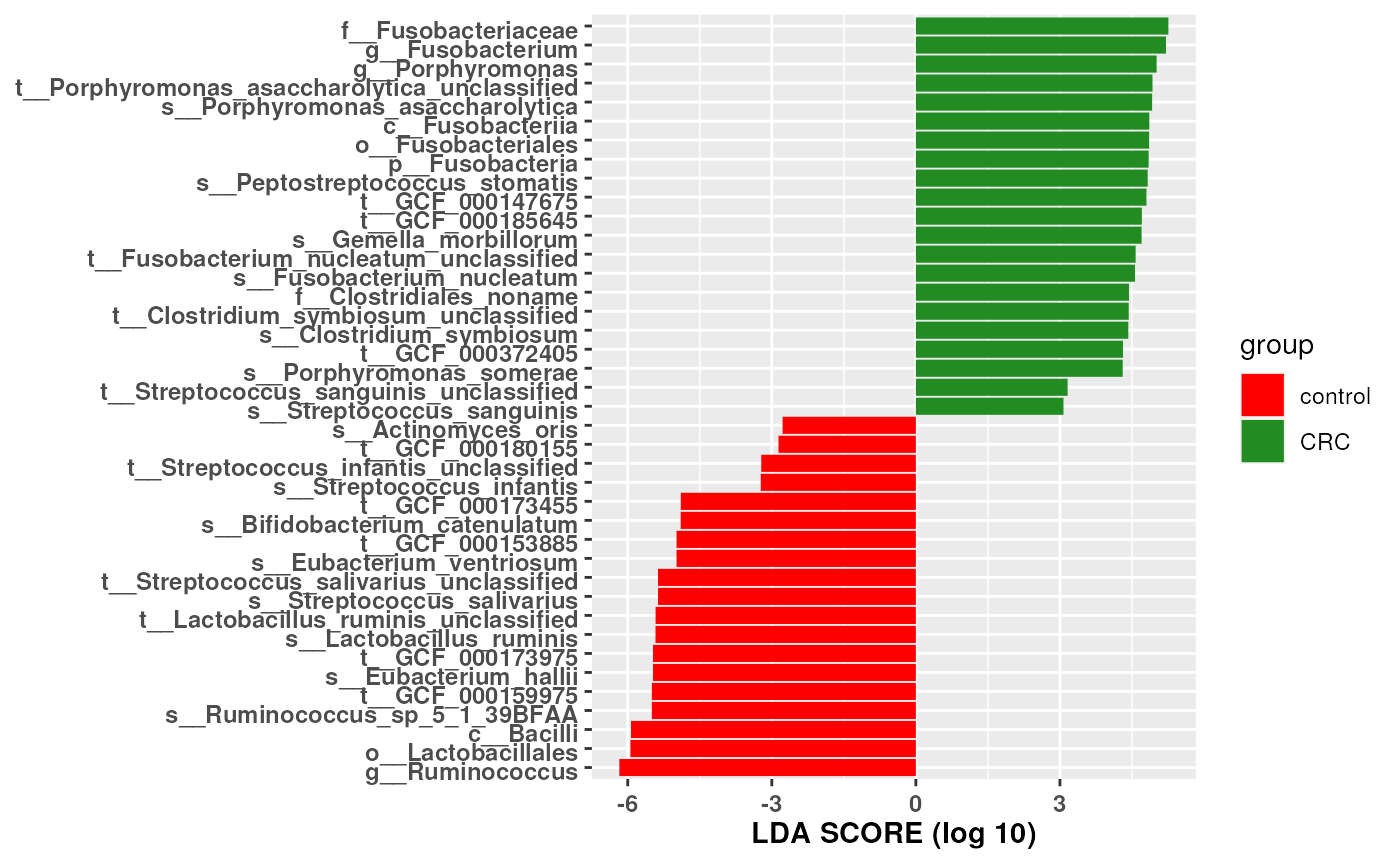
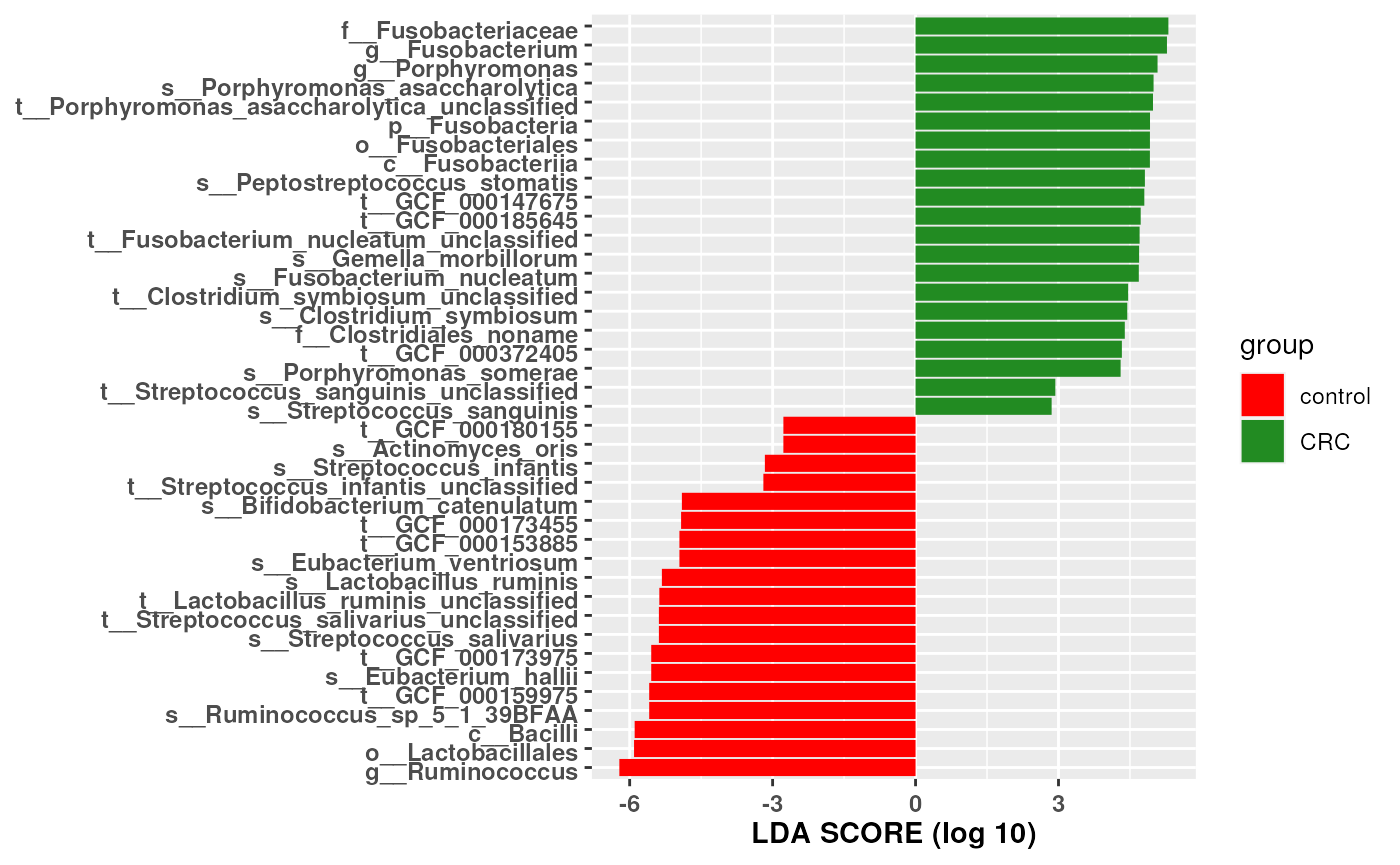
Deploying to gh-pages from @ waldronlab/lefser@5c6cd677761638077e22e229d8a00ba6323e78dc 🚀

diff --git a/articles/lefser.html b/articles/lefser.html
@@ -39,7 +39,7 @@
       </button>
       <span class="navbar-brand">
         <a class="navbar-link" href="../index.html">lefser</a>
-        <span class="version label label-default" data-toggle="tooltip" data-placement="bottom" title="">1.11.3</span>
+        <span class="version label label-default" data-toggle="tooltip" data-placement="bottom" title="">1.11.4</span>
       </span>
     </div>
 
@@ -174,12 +174,12 @@ and their effect size.</p>
 <span><span class="co">## 5 k__Bacteria|p__Firmicutes|c__Clostridia|o__Clostridiales|f__Ruminococcaceae|g__Ruminococcus|s__Ruminococcus_sp_5_1_39BFAA|t__GCF_000159975</span></span>
 <span><span class="co">## 6                            k__Bacteria|p__Firmicutes|c__Clostridia|o__Clostridiales|f__Eubacteriaceae|g__Eubacterium|s__Eubacterium_hallii</span></span>
 <span><span class="co">##      scores</span></span>
-<span><span class="co">## 1 -6.174735</span></span>
-<span><span class="co">## 2 -5.944198</span></span>
-<span><span class="co">## 3 -5.932699</span></span>
-<span><span class="co">## 4 -5.498126</span></span>
-<span><span class="co">## 5 -5.498126</span></span>
-<span><span class="co">## 6 -5.474545</span></span></code></pre>
+<span><span class="co">## 1 -6.216414</span></span>
+<span><span class="co">## 2 -5.908016</span></span>
+<span><span class="co">## 3 -5.895093</span></span>
+<span><span class="co">## 4 -5.590072</span></span>
+<span><span class="co">## 5 -5.590072</span></span>
+<span><span class="co">## 6 -5.547374</span></span></code></pre>
 </div>
 <div class="section level2">
 <h2 id="visualizing-results-with-lefserplot">Visualizing results with <code>lefserPlot</code><a class="anchor" aria-label="anchor" href="#visualizing-results-with-lefserplot"></a>
@@ -187,10 +187,67 @@ and their effect size.</p>
 <div class="sourceCode" id="cb15"><pre class="downlit sourceCode r">
 <code class="sourceCode R"><span><span class="fu"><a href="../reference/lefserPlot.html">lefserPlot</a></span><span class="op">(</span><span class="va">res</span><span class="op">)</span></span></code></pre></div>
 <p><img src="lefser_files/figure-html/unnamed-chunk-8-1.png" width="700" style="display: block; margin: auto;"></p>
+</div>
+<div class="section level2">
+<h2 id="interoperating-with-phyloseq">Interoperating with phyloseq<a class="anchor" aria-label="anchor" href="#interoperating-with-phyloseq"></a>
+</h2>
+<p>When using <code>phyloseq</code> objects, we recommend to extract the
+data and create a <code>SummarizedExperiment</code> object as
+follows:</p>
+<div class="sourceCode" id="cb16"><pre class="downlit sourceCode r">
+<code class="sourceCode R"><span><span class="kw"><a href="https://rdrr.io/r/base/library.html" class="external-link">library</a></span><span class="op">(</span><span class="va"><a href="http://dx.plos.org/10.1371/journal.pone.0061217" class="external-link">phyloseq</a></span><span class="op">)</span></span></code></pre></div>
+<pre><code><span><span class="co">## </span></span>
+<span><span class="co">## Attaching package: 'phyloseq'</span></span></code></pre>
+<pre><code><span><span class="co">## The following object is masked from 'package:SummarizedExperiment':</span></span>
+<span><span class="co">## </span></span>
+<span><span class="co">##     distance</span></span></code></pre>
+<pre><code><span><span class="co">## The following object is masked from 'package:Biobase':</span></span>
+<span><span class="co">## </span></span>
+<span><span class="co">##     sampleNames</span></span></code></pre>
+<pre><code><span><span class="co">## The following object is masked from 'package:GenomicRanges':</span></span>
+<span><span class="co">## </span></span>
+<span><span class="co">##     distance</span></span></code></pre>
+<pre><code><span><span class="co">## The following object is masked from 'package:IRanges':</span></span>
+<span><span class="co">## </span></span>
+<span><span class="co">##     distance</span></span></code></pre>
+<div class="sourceCode" id="cb22"><pre class="downlit sourceCode r">
+<code class="sourceCode R"><span><span class="va">fp</span> <span class="op">&lt;-</span> <span class="fu"><a href="https://rdrr.io/r/base/system.file.html" class="external-link">system.file</a></span><span class="op">(</span></span>
+<span>    <span class="st">"extdata"</span>, <span class="st">"study_1457_split_library_seqs_and_mapping.zip"</span>,</span>
+<span>    package <span class="op">=</span> <span class="st">"phyloseq"</span></span>
+<span><span class="op">)</span></span>
+<span><span class="va">kostic</span> <span class="op">&lt;-</span> <span class="fu"><a href="https://rdrr.io/r/base/warning.html" class="external-link">suppressWarnings</a></span><span class="op">(</span><span class="op">{</span></span>
+<span>    <span class="fu"><a href="https://rdrr.io/pkg/phyloseq/man/microbio_me_qiime.html" class="external-link">microbio_me_qiime</a></span><span class="op">(</span><span class="va">fp</span><span class="op">)</span></span>
+<span><span class="op">}</span><span class="op">)</span></span></code></pre></div>
+<pre><code><span><span class="co">## Found biom-format file, now parsing it... </span></span>
+<span><span class="co">## Done parsing biom... </span></span>
+<span><span class="co">## Importing Sample Metdadata from mapping file...</span></span>
+<span><span class="co">## Merging the imported objects... </span></span>
+<span><span class="co">## Successfully merged, phyloseq-class created. </span></span>
+<span><span class="co">##  Returning...</span></span></code></pre>
+<div class="sourceCode" id="cb24"><pre class="downlit sourceCode r">
+<code class="sourceCode R"><span><span class="va">counts</span> <span class="op">&lt;-</span> <span class="fu"><a href="https://rdrr.io/r/base/class.html" class="external-link">unclass</a></span><span class="op">(</span><span class="fu"><a href="https://rdrr.io/pkg/phyloseq/man/otu_table-methods.html" class="external-link">otu_table</a></span><span class="op">(</span><span class="va">kostic</span><span class="op">)</span><span class="op">)</span></span>
+<span><span class="va">colData</span> <span class="op">&lt;-</span> <span class="fu">as</span><span class="op">(</span><span class="fu"><a href="https://rdrr.io/pkg/phyloseq/man/sample_data-methods.html" class="external-link">sample_data</a></span><span class="op">(</span><span class="va">kostic</span><span class="op">)</span>, <span class="st">"data.frame"</span><span class="op">)</span></span>
+<span><span class="co">## create a SummarizedExperiment object</span></span>
+<span><span class="fu"><a href="https://rdrr.io/pkg/SummarizedExperiment/man/RangedSummarizedExperiment-class.html" class="external-link">SummarizedExperiment</a></span><span class="op">(</span></span>
+<span>    assays <span class="op">=</span> <span class="fu"><a href="https://rdrr.io/r/base/list.html" class="external-link">list</a></span><span class="op">(</span>counts <span class="op">=</span> <span class="va">counts</span><span class="op">)</span>, colData <span class="op">=</span> <span class="va">colData</span></span>
+<span><span class="op">)</span></span></code></pre></div>
+<pre><code><span><span class="co">## class: SummarizedExperiment </span></span>
+<span><span class="co">## dim: 2505 190 </span></span>
+<span><span class="co">## metadata(0):</span></span>
+<span><span class="co">## assays(1): counts</span></span>
+<span><span class="co">## rownames(2505): 304309 469478 ... 206906 298806</span></span>
+<span><span class="co">## rowData names(0):</span></span>
+<span><span class="co">## colnames(190): C0333.N.518126 C0333.T.518046 ... 32I9UNA9.518098</span></span>
+<span><span class="co">##   BFJMKNMP.518102</span></span>
+<span><span class="co">## colData names(71): X.SampleID BarcodeSequence ... HOST_TAXID</span></span>
+<span><span class="co">##   Description</span></span></code></pre>
+<p>You may also consider using
+<code>makeTreeSummarizedExperimentFromPhyloseq</code> from the
+<code>mia</code> package (example not shown).</p>
 <div class="section level3">
 <h3 id="sessioninfo">sessionInfo<a class="anchor" aria-label="anchor" href="#sessioninfo"></a>
 </h3>
-<details><div class="sourceCode" id="cb16"><pre class="downlit sourceCode r">
+<details><div class="sourceCode" id="cb26"><pre class="downlit sourceCode r">
 <code class="sourceCode R"><span><span class="fu"><a href="https://rdrr.io/r/utils/sessionInfo.html" class="external-link">sessionInfo</a></span><span class="op">(</span><span class="op">)</span></span></code></pre></div>
 <pre><code><span><span class="co">## R version 4.3.0 (2023-04-21)</span></span>
 <span><span class="co">## Platform: x86_64-pc-linux-gnu (64-bit)</span></span>
@@ -216,40 +273,46 @@ and their effect size.</p>
 <span><span class="co">## [8] base     </span></span>
 <span><span class="co">## </span></span>
 <span><span class="co">## other attached packages:</span></span>
-<span><span class="co">##  [1] lefser_1.11.3               SummarizedExperiment_1.30.2</span></span>
-<span><span class="co">##  [3] Biobase_2.60.0              GenomicRanges_1.52.1       </span></span>
-<span><span class="co">##  [5] GenomeInfoDb_1.36.4         IRanges_2.34.1             </span></span>
-<span><span class="co">##  [7] S4Vectors_0.38.2            BiocGenerics_0.46.0        </span></span>
-<span><span class="co">##  [9] MatrixGenerics_1.12.3       matrixStats_1.0.0          </span></span>
-<span><span class="co">## [11] BiocStyle_2.28.1           </span></span>
+<span><span class="co">##  [1] phyloseq_1.44.0             lefser_1.11.4              </span></span>
+<span><span class="co">##  [3] SummarizedExperiment_1.30.2 Biobase_2.60.0             </span></span>
+<span><span class="co">##  [5] GenomicRanges_1.52.1        GenomeInfoDb_1.36.4        </span></span>
+<span><span class="co">##  [7] IRanges_2.34.1              S4Vectors_0.38.2           </span></span>
+<span><span class="co">##  [9] BiocGenerics_0.46.0         MatrixGenerics_1.12.3      </span></span>
+<span><span class="co">## [11] matrixStats_1.0.0           BiocStyle_2.28.1           </span></span>
 <span><span class="co">## </span></span>
 <span><span class="co">## loaded via a namespace (and not attached):</span></span>
-<span><span class="co">##  [1] gtable_0.3.4            ggplot2_3.4.4           xfun_0.40              </span></span>
-<span><span class="co">##  [4] bslib_0.5.1             coin_1.4-3              lattice_0.21-9         </span></span>
-<span><span class="co">##  [7] generics_0.1.3          vctrs_0.6.4             tools_4.3.0            </span></span>
-<span><span class="co">## [10] bitops_1.0-7            parallel_4.3.0          sandwich_3.0-2         </span></span>
-<span><span class="co">## [13] fansi_1.0.5             tibble_3.2.1            pkgconfig_2.0.3        </span></span>
-<span><span class="co">## [16] Matrix_1.6-1.1          desc_1.4.2              lifecycle_1.0.3        </span></span>
-<span><span class="co">## [19] GenomeInfoDbData_1.2.10 farver_2.1.1            compiler_4.3.0         </span></span>
-<span><span class="co">## [22] stringr_1.5.0           textshaping_0.3.7       munsell_0.5.0          </span></span>
-<span><span class="co">## [25] codetools_0.2-19        htmltools_0.5.6.1       sass_0.4.7             </span></span>
-<span><span class="co">## [28] RCurl_1.98-1.12         yaml_2.3.7              pillar_1.9.0           </span></span>
-<span><span class="co">## [31] pkgdown_2.0.7           crayon_1.5.2            jquerylib_0.1.4        </span></span>
-<span><span class="co">## [34] MASS_7.3-60             DelayedArray_0.26.7     cachem_1.0.8           </span></span>
-<span><span class="co">## [37] abind_1.4-5             multcomp_1.4-25         tidyselect_1.2.0       </span></span>
-<span><span class="co">## [40] digest_0.6.33           mvtnorm_1.2-3           stringi_1.7.12         </span></span>
-<span><span class="co">## [43] dplyr_1.1.3             purrr_1.0.2             bookdown_0.36          </span></span>
-<span><span class="co">## [46] labeling_0.4.3          splines_4.3.0           rprojroot_2.0.3        </span></span>
-<span><span class="co">## [49] fastmap_1.1.1           grid_4.3.0              colorspace_2.1-0       </span></span>
-<span><span class="co">## [52] cli_3.6.1               magrittr_2.0.3          S4Arrays_1.0.6         </span></span>
-<span><span class="co">## [55] utf8_1.2.3              survival_3.5-7          TH.data_1.1-2          </span></span>
-<span><span class="co">## [58] withr_2.5.1             libcoin_1.0-10          scales_1.2.1           </span></span>
-<span><span class="co">## [61] rmarkdown_2.25          XVector_0.40.0          ragg_1.2.6             </span></span>
-<span><span class="co">## [64] zoo_1.8-12              modeltools_0.2-23       memoise_2.0.1          </span></span>
-<span><span class="co">## [67] evaluate_0.22           knitr_1.44              rlang_1.1.1            </span></span>
-<span><span class="co">## [70] glue_1.6.2              BiocManager_1.30.22     jsonlite_1.8.7         </span></span>
-<span><span class="co">## [73] R6_2.5.1                systemfonts_1.0.5       fs_1.6.3               </span></span>
-<span><span class="co">## [76] zlibbioc_1.46.0</span></span></code></pre>
+<span><span class="co">##  [1] bitops_1.0-7            permute_0.9-7           sandwich_3.0-2         </span></span>
+<span><span class="co">##  [4] rlang_1.1.1             magrittr_2.0.3          multcomp_1.4-25        </span></span>
+<span><span class="co">##  [7] ade4_1.7-22             compiler_4.3.0          mgcv_1.9-0             </span></span>
+<span><span class="co">## [10] systemfonts_1.0.5       vctrs_0.6.4             reshape2_1.4.4         </span></span>
+<span><span class="co">## [13] stringr_1.5.0           pkgconfig_2.0.3         crayon_1.5.2           </span></span>
+<span><span class="co">## [16] fastmap_1.1.1           XVector_0.40.0          labeling_0.4.3         </span></span>
+<span><span class="co">## [19] utf8_1.2.3              rmarkdown_2.25          ragg_1.2.6             </span></span>
+<span><span class="co">## [22] purrr_1.0.2             xfun_0.40               modeltools_0.2-23      </span></span>
+<span><span class="co">## [25] zlibbioc_1.46.0         cachem_1.0.8            jsonlite_1.8.7         </span></span>
+<span><span class="co">## [28] biomformat_1.28.0       rhdf5filters_1.12.1     DelayedArray_0.26.7    </span></span>
+<span><span class="co">## [31] Rhdf5lib_1.22.1         parallel_4.3.0          cluster_2.1.4          </span></span>
+<span><span class="co">## [34] R6_2.5.1                coin_1.4-3              bslib_0.5.1            </span></span>
+<span><span class="co">## [37] stringi_1.7.12          jquerylib_0.1.4         Rcpp_1.0.11            </span></span>
+<span><span class="co">## [40] bookdown_0.36           iterators_1.0.14        knitr_1.44             </span></span>
+<span><span class="co">## [43] zoo_1.8-12              Matrix_1.6-1.1          splines_4.3.0          </span></span>
+<span><span class="co">## [46] igraph_1.5.1            tidyselect_1.2.0        abind_1.4-5            </span></span>
+<span><span class="co">## [49] yaml_2.3.7              vegan_2.6-4             codetools_0.2-19       </span></span>
+<span><span class="co">## [52] lattice_0.21-9          tibble_3.2.1            plyr_1.8.9             </span></span>
+<span><span class="co">## [55] withr_2.5.1             evaluate_0.22           desc_1.4.2             </span></span>
+<span><span class="co">## [58] survival_3.5-7          Biostrings_2.68.1       pillar_1.9.0           </span></span>
+<span><span class="co">## [61] BiocManager_1.30.22     foreach_1.5.2           generics_0.1.3         </span></span>
+<span><span class="co">## [64] rprojroot_2.0.3         RCurl_1.98-1.12         ggplot2_3.4.4          </span></span>
+<span><span class="co">## [67] munsell_0.5.0           scales_1.2.1            glue_1.6.2             </span></span>
+<span><span class="co">## [70] tools_4.3.0             data.table_1.14.8       fs_1.6.3               </span></span>
+<span><span class="co">## [73] mvtnorm_1.2-3           rhdf5_2.44.0            grid_4.3.0             </span></span>
+<span><span class="co">## [76] ape_5.7-1               libcoin_1.0-10          colorspace_2.1-0       </span></span>
+<span><span class="co">## [79] nlme_3.1-163            GenomeInfoDbData_1.2.10 cli_3.6.1              </span></span>
+<span><span class="co">## [82] textshaping_0.3.7       fansi_1.0.5             S4Arrays_1.0.6         </span></span>
+<span><span class="co">## [85] dplyr_1.1.3             gtable_0.3.4            sass_0.4.7             </span></span>
+<span><span class="co">## [88] digest_0.6.33           TH.data_1.1-2           farver_2.1.1           </span></span>
+<span><span class="co">## [91] memoise_2.0.1           htmltools_0.5.6.1       pkgdown_2.0.7          </span></span>
+<span><span class="co">## [94] multtest_2.56.0         lifecycle_1.0.3         MASS_7.3-60</span></span></code></pre>
 </details>
 </div>
 </div>

diff --git a/reference/lefser.html b/reference/lefser.html
@@ -27,7 +27,7 @@ are identified as biomarkers."><!-- mathjax --><script src="https://cdnjs.cloudf
       </button>
       <span class="navbar-brand">
         <a class="navbar-link" href="../index.html">lefser</a>
-        <span class="version label label-default" data-toggle="tooltip" data-placement="bottom" title="">1.11.3</span>
+        <span class="version label label-default" data-toggle="tooltip" data-placement="bottom" title="">1.11.4</span>
       </span>
     </div>
 
@@ -178,12 +178,12 @@ argument to <code>FALSE</code>.</p>
 <span class="r-out co"><span class="r-pr">#&gt;</span> 5                  k__Bacteria|p__Firmicutes|c__Clostridia|o__Clostridiales|f__Lachnospiraceae|g__Coprococcus|s__Coprococcus_eutactus</span>
 <span class="r-out co"><span class="r-pr">#&gt;</span> 6 k__Bacteria|p__Firmicutes|c__Clostridia|o__Clostridiales|f__Lachnospiraceae|g__Coprococcus|s__Coprococcus_eutactus|t__GCF_000154425</span>
 <span class="r-out co"><span class="r-pr">#&gt;</span>      scores</span>
-<span class="r-out co"><span class="r-pr">#&gt;</span> 1 -6.354209</span>
-<span class="r-out co"><span class="r-pr">#&gt;</span> 2 -6.354209</span>
-<span class="r-out co"><span class="r-pr">#&gt;</span> 3 -6.354174</span>
-<span class="r-out co"><span class="r-pr">#&gt;</span> 4 -5.747853</span>
-<span class="r-out co"><span class="r-pr">#&gt;</span> 5 -5.665942</span>
-<span class="r-out co"><span class="r-pr">#&gt;</span> 6 -5.638854</span>
+<span class="r-out co"><span class="r-pr">#&gt;</span> 1 -6.411232</span>
+<span class="r-out co"><span class="r-pr">#&gt;</span> 2 -6.411232</span>
+<span class="r-out co"><span class="r-pr">#&gt;</span> 3 -6.411205</span>
+<span class="r-out co"><span class="r-pr">#&gt;</span> 4 -5.787917</span>
+<span class="r-out co"><span class="r-pr">#&gt;</span> 5 -5.647113</span>
+<span class="r-out co"><span class="r-pr">#&gt;</span> 6 -5.609561</span>
 <span class="r-in"><span></span></span>
 <span class="r-in"><span>    <span class="co"># (2) Using classes and sublasses</span></span></span>
 <span class="r-in"><span>    <span class="fu"><a href="https://rdrr.io/r/utils/data.html" class="external-link">data</a></span><span class="op">(</span><span class="va">zeller14</span><span class="op">)</span></span></span>
@@ -197,19 +197,19 @@ argument to <code>FALSE</code>.</p>
 <span class="r-msg co"><span class="r-pr">#&gt;</span>  See `?factor` or `?relevel` to change the reference category.</span>
 <span class="r-in"><span>    <span class="fu"><a href="https://rdrr.io/r/utils/head.html" class="external-link">head</a></span><span class="op">(</span><span class="va">res_block</span><span class="op">)</span></span></span>
 <span class="r-out co"><span class="r-pr">#&gt;</span>                                                                                                                                                                                Names</span>
-<span class="r-out co"><span class="r-pr">#&gt;</span> 1                                                                               k__Bacteria|p__Fusobacteria|c__Fusobacteriia|o__Fusobacteriales|f__Fusobacteriaceae|g__Fusobacterium</span>
-<span class="r-out co"><span class="r-pr">#&gt;</span> 2                                                                                                k__Bacteria|p__Fusobacteria|c__Fusobacteriia|o__Fusobacteriales|f__Fusobacteriaceae</span>
+<span class="r-out co"><span class="r-pr">#&gt;</span> 1                                                                                                k__Bacteria|p__Fusobacteria|c__Fusobacteriia|o__Fusobacteriales|f__Fusobacteriaceae</span>
+<span class="r-out co"><span class="r-pr">#&gt;</span> 2                                                                               k__Bacteria|p__Fusobacteria|c__Fusobacteriia|o__Fusobacteriales|f__Fusobacteriaceae|g__Fusobacterium</span>
 <span class="r-out co"><span class="r-pr">#&gt;</span> 3                                                                                k__Bacteria|p__Bacteroidetes|c__Bacteroidia|o__Bacteroidales|f__Porphyromonadaceae|g__Porphyromonas</span>
 <span class="r-out co"><span class="r-pr">#&gt;</span> 4 k__Bacteria|p__Bacteroidetes|c__Bacteroidia|o__Bacteroidales|f__Porphyromonadaceae|g__Porphyromonas|s__Porphyromonas_asaccharolytica|t__Porphyromonas_asaccharolytica_unclassified</span>
 <span class="r-out co"><span class="r-pr">#&gt;</span> 5                                               k__Bacteria|p__Bacteroidetes|c__Bacteroidia|o__Bacteroidales|f__Porphyromonadaceae|g__Porphyromonas|s__Porphyromonas_asaccharolytica</span>
-<span class="r-out co"><span class="r-pr">#&gt;</span> 6                                                                                                                    k__Bacteria|p__Fusobacteria|c__Fusobacteriia|o__Fusobacteriales</span>
+<span class="r-out co"><span class="r-pr">#&gt;</span> 6                                             k__Bacteria|p__Firmicutes|c__Clostridia|o__Clostridiales|f__Peptostreptococcaceae|g__Peptostreptococcus|s__Peptostreptococcus_stomatis</span>
 <span class="r-out co"><span class="r-pr">#&gt;</span>      scores</span>
-<span class="r-out co"><span class="r-pr">#&gt;</span> 1 -5.257637</span>
-<span class="r-out co"><span class="r-pr">#&gt;</span> 2 -5.242320</span>
-<span class="r-out co"><span class="r-pr">#&gt;</span> 3 -5.043539</span>
-<span class="r-out co"><span class="r-pr">#&gt;</span> 4 -4.952424</span>
-<span class="r-out co"><span class="r-pr">#&gt;</span> 5 -4.926706</span>
-<span class="r-out co"><span class="r-pr">#&gt;</span> 6 -4.884561</span>
+<span class="r-out co"><span class="r-pr">#&gt;</span> 1 -5.230725</span>
+<span class="r-out co"><span class="r-pr">#&gt;</span> 2 -5.212278</span>
+<span class="r-out co"><span class="r-pr">#&gt;</span> 3 -5.050998</span>
+<span class="r-out co"><span class="r-pr">#&gt;</span> 4 -4.961072</span>
+<span class="r-out co"><span class="r-pr">#&gt;</span> 5 -4.934663</span>
+<span class="r-out co"><span class="r-pr">#&gt;</span> 6 -4.810627</span>
 </code></pre></div>
     </div>
   </div>

diff --git a/reference/lefserPlot.html b/reference/lefserPlot.html
@@ -24,7 +24,7 @@ and whether they are more abundant in '0' or '1' sample group."><!-- mathjax -->
       </button>
       <span class="navbar-brand">
         <a class="navbar-link" href="../index.html">lefser</a>
-        <span class="version label label-default" data-toggle="tooltip" data-placement="bottom" title="">1.11.3</span>
+        <span class="version label label-default" data-toggle="tooltip" data-placement="bottom" title="">1.11.4</span>
       </span>
     </div>
 
@@ -115,12 +115,12 @@ Negative scores represent microorganisms with that are more abundant in class '0
 <span class="r-out co"><span class="r-pr">#&gt;</span> 5                  k__Bacteria|p__Firmicutes|c__Clostridia|o__Clostridiales|f__Lachnospiraceae|g__Coprococcus|s__Coprococcus_eutactus</span>
 <span class="r-out co"><span class="r-pr">#&gt;</span> 6 k__Bacteria|p__Firmicutes|c__Clostridia|o__Clostridiales|f__Lachnospiraceae|g__Coprococcus|s__Coprococcus_eutactus|t__GCF_000154425</span>
 <span class="r-out co"><span class="r-pr">#&gt;</span>      scores</span>
-<span class="r-out co"><span class="r-pr">#&gt;</span> 1 -6.391417</span>
-<span class="r-out co"><span class="r-pr">#&gt;</span> 2 -6.391417</span>
-<span class="r-out co"><span class="r-pr">#&gt;</span> 3 -6.391392</span>
-<span class="r-out co"><span class="r-pr">#&gt;</span> 4 -5.738434</span>
-<span class="r-out co"><span class="r-pr">#&gt;</span> 5 -5.569205</span>
-<span class="r-out co"><span class="r-pr">#&gt;</span> 6 -5.564682</span>
+<span class="r-out co"><span class="r-pr">#&gt;</span> 1 -6.315413</span>
+<span class="r-out co"><span class="r-pr">#&gt;</span> 2 -6.315413</span>
+<span class="r-out co"><span class="r-pr">#&gt;</span> 3 -6.315381</span>
+<span class="r-out co"><span class="r-pr">#&gt;</span> 4 -5.712236</span>
+<span class="r-out co"><span class="r-pr">#&gt;</span> 5 -5.581008</span>
+<span class="r-out co"><span class="r-pr">#&gt;</span> 6 -5.555817</span>
 <span class="r-out co"><span class="r-pr">#&gt;</span> </span>
 <span class="r-out co"><span class="r-pr">#&gt;</span> lefser&gt;     # (2) Using classes and sublasses</span>
 <span class="r-out co"><span class="r-pr">#&gt;</span> lefser&gt;     data(zeller14)</span>
@@ -140,16 +140,16 @@ Negative scores represent microorganisms with that are more abundant in class '0
 <span class="r-out co"><span class="r-pr">#&gt;</span> 1                                                                               k__Bacteria|p__Fusobacteria|c__Fusobacteriia|o__Fusobacteriales|f__Fusobacteriaceae|g__Fusobacterium</span>
 <span class="r-out co"><span class="r-pr">#&gt;</span> 2                                                                                                k__Bacteria|p__Fusobacteria|c__Fusobacteriia|o__Fusobacteriales|f__Fusobacteriaceae</span>
 <span class="r-out co"><span class="r-pr">#&gt;</span> 3                                                                                k__Bacteria|p__Bacteroidetes|c__Bacteroidia|o__Bacteroidales|f__Porphyromonadaceae|g__Porphyromonas</span>
-<span class="r-out co"><span class="r-pr">#&gt;</span> 4                                               k__Bacteria|p__Bacteroidetes|c__Bacteroidia|o__Bacteroidales|f__Porphyromonadaceae|g__Porphyromonas|s__Porphyromonas_asaccharolytica</span>
-<span class="r-out co"><span class="r-pr">#&gt;</span> 5 k__Bacteria|p__Bacteroidetes|c__Bacteroidia|o__Bacteroidales|f__Porphyromonadaceae|g__Porphyromonas|s__Porphyromonas_asaccharolytica|t__Porphyromonas_asaccharolytica_unclassified</span>
+<span class="r-out co"><span class="r-pr">#&gt;</span> 4 k__Bacteria|p__Bacteroidetes|c__Bacteroidia|o__Bacteroidales|f__Porphyromonadaceae|g__Porphyromonas|s__Porphyromonas_asaccharolytica|t__Porphyromonas_asaccharolytica_unclassified</span>
+<span class="r-out co"><span class="r-pr">#&gt;</span> 5                                               k__Bacteria|p__Bacteroidetes|c__Bacteroidia|o__Bacteroidales|f__Porphyromonadaceae|g__Porphyromonas|s__Porphyromonas_asaccharolytica</span>
 <span class="r-out co"><span class="r-pr">#&gt;</span> 6                                                                                                                                                        k__Bacteria|p__Fusobacteria</span>
 <span class="r-out co"><span class="r-pr">#&gt;</span>      scores</span>
-<span class="r-out co"><span class="r-pr">#&gt;</span> 1 -5.277865</span>
-<span class="r-out co"><span class="r-pr">#&gt;</span> 2 -5.200398</span>
-<span class="r-out co"><span class="r-pr">#&gt;</span> 3 -5.049135</span>
-<span class="r-out co"><span class="r-pr">#&gt;</span> 4 -4.937132</span>
-<span class="r-out co"><span class="r-pr">#&gt;</span> 5 -4.895265</span>
-<span class="r-out co"><span class="r-pr">#&gt;</span> 6 -4.886917</span>
+<span class="r-out co"><span class="r-pr">#&gt;</span> 1 -5.319767</span>
+<span class="r-out co"><span class="r-pr">#&gt;</span> 2 -5.216802</span>
+<span class="r-out co"><span class="r-pr">#&gt;</span> 3 -5.010703</span>
+<span class="r-out co"><span class="r-pr">#&gt;</span> 4 -4.950247</span>
+<span class="r-out co"><span class="r-pr">#&gt;</span> 5 -4.933431</span>
+<span class="r-out co"><span class="r-pr">#&gt;</span> 6 -4.830540</span>
 <span class="r-in"><span><span class="fu">lefserPlot</span><span class="op">(</span><span class="va">res_group</span><span class="op">)</span></span></span>
 <span class="r-plt img"><img src="lefserPlot-1.png" alt="" width="700" height="433"></span>
 </code></pre></div>

diff --git a/authors.html b/authors.html
@@ -23,7 +23,7 @@
       </button>
       <span class="navbar-brand">
         <a class="navbar-link" href="index.html">lefser</a>
-        <span class="version label label-default" data-toggle="tooltip" data-placement="bottom" title="">1.11.3</span>
+        <span class="version label label-default" data-toggle="tooltip" data-placement="bottom" title="">1.11.4</span>
       </span>
     </div>
 
@@ -84,13 +84,13 @@
 
     <p>Khleborodova A (2023).
 <em>lefser: R implementation of the LEfSE method for microbiome biomarker discovery</em>.
-R package version 1.11.3, <a href="https://github.com/waldronlab/lefser" class="external-link">https://github.com/waldronlab/lefser</a>. 
+R package version 1.11.4, <a href="https://github.com/waldronlab/lefser" class="external-link">https://github.com/waldronlab/lefser</a>. 
 </p>
     <pre>@Manual{,
   title = {lefser: R implementation of the LEfSE method for microbiome biomarker discovery},
   author = {Asya Khleborodova},
   year = {2023},
-  note = {R package version 1.11.3},
+  note = {R package version 1.11.4},
   url = {https://github.com/waldronlab/lefser},
 }</pre>
 

diff --git a/reference/relativeAb.html b/reference/relativeAb.html
@@ -24,7 +24,7 @@ column by the respective column total."><!-- mathjax --><script src="https://cdn
       </button>
       <span class="navbar-brand">
         <a class="navbar-link" href="../index.html">lefser</a>
-        <span class="version label label-default" data-toggle="tooltip" data-placement="bottom" title="">1.11.3</span>
+        <span class="version label label-default" data-toggle="tooltip" data-placement="bottom" title="">1.11.4</span>
       </span>
     </div>
 

diff --git a/reference/zeller14.html b/reference/zeller14.html
@@ -25,7 +25,7 @@ directory "data-raw".'><!-- mathjax --><script src="https://cdnjs.cloudflare.com
       </button>
       <span class="navbar-brand">
         <a class="navbar-link" href="../index.html">lefser</a>
-        <span class="version label label-default" data-toggle="tooltip" data-placement="bottom" title="">1.11.3</span>
+        <span class="version label label-default" data-toggle="tooltip" data-placement="bottom" title="">1.11.4</span>
       </span>
     </div>
 

diff --git a/404.html b/404.html
@@ -38,7 +38,7 @@
       </button>
       <span class="navbar-brand">
         <a class="navbar-link" href="https://waldronlab.io/lefser/index.html">lefser</a>
-        <span class="version label label-default" data-toggle="tooltip" data-placement="bottom" title="">1.11.3</span>
+        <span class="version label label-default" data-toggle="tooltip" data-placement="bottom" title="">1.11.4</span>
       </span>
     </div>
 

diff --git a/articles/index.html b/articles/index.html
@@ -23,7 +23,7 @@
       </button>
       <span class="navbar-brand">
         <a class="navbar-link" href="../index.html">lefser</a>
-        <span class="version label label-default" data-toggle="tooltip" data-placement="bottom" title="">1.11.3</span>
+        <span class="version label label-default" data-toggle="tooltip" data-placement="bottom" title="">1.11.4</span>
       </span>
     </div>
 

diff --git a/news/index.html b/news/index.html
@@ -23,7 +23,7 @@
       </button>
       <span class="navbar-brand">
         <a class="navbar-link" href="../index.html">lefser</a>
-        <span class="version label label-default" data-toggle="tooltip" data-placement="bottom" title="">1.11.3</span>
+        <span class="version label label-default" data-toggle="tooltip" data-placement="bottom" title="">1.11.4</span>
       </span>
     </div>
 

diff --git a/reference/index.html b/reference/index.html
@@ -23,7 +23,7 @@
       </button>
       <span class="navbar-brand">
         <a class="navbar-link" href="../index.html">lefser</a>
-        <span class="version label label-default" data-toggle="tooltip" data-placement="bottom" title="">1.11.3</span>
+        <span class="version label label-default" data-toggle="tooltip" data-placement="bottom" title="">1.11.4</span>
       </span>
     </div>
 

diff --git a/index.html b/index.html
@@ -42,7 +42,7 @@
       </button>
       <span class="navbar-brand">
         <a class="navbar-link" href="index.html">lefser</a>
-        <span class="version label label-default" data-toggle="tooltip" data-placement="bottom" title="">1.11.3</span>
+        <span class="version label label-default" data-toggle="tooltip" data-placement="bottom" title="">1.11.4</span>
       </span>
     </div>
 
